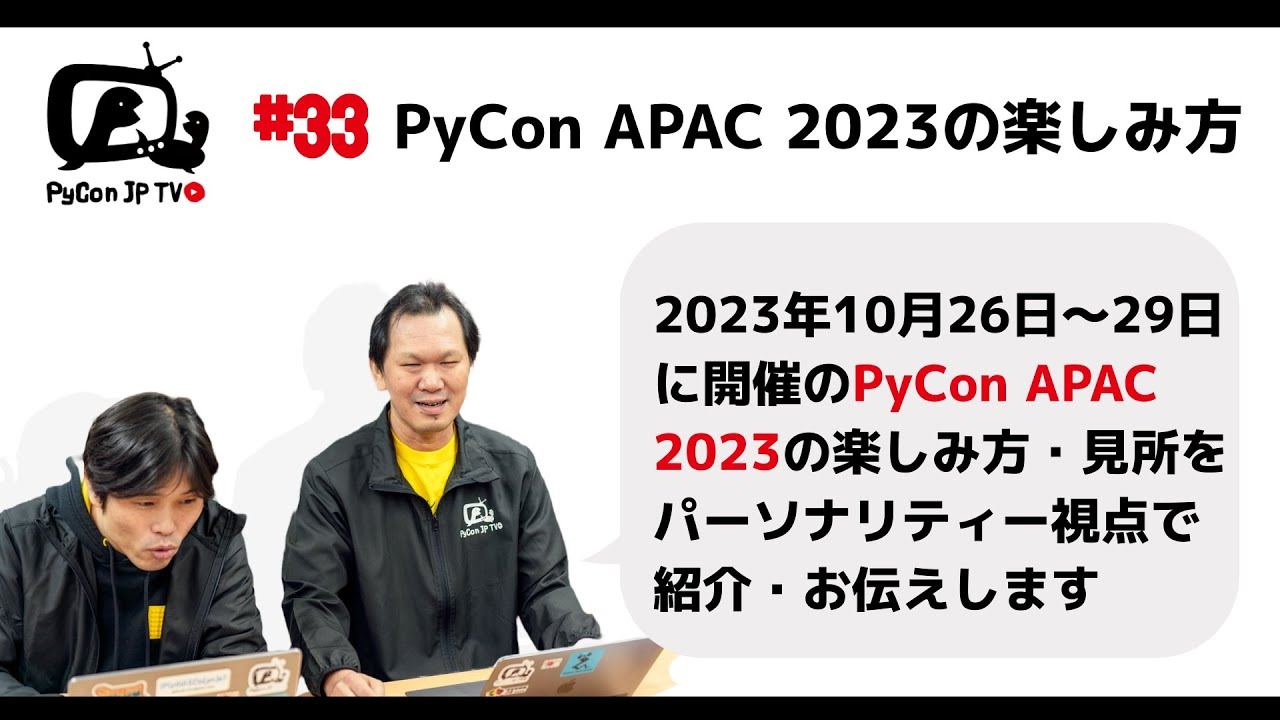
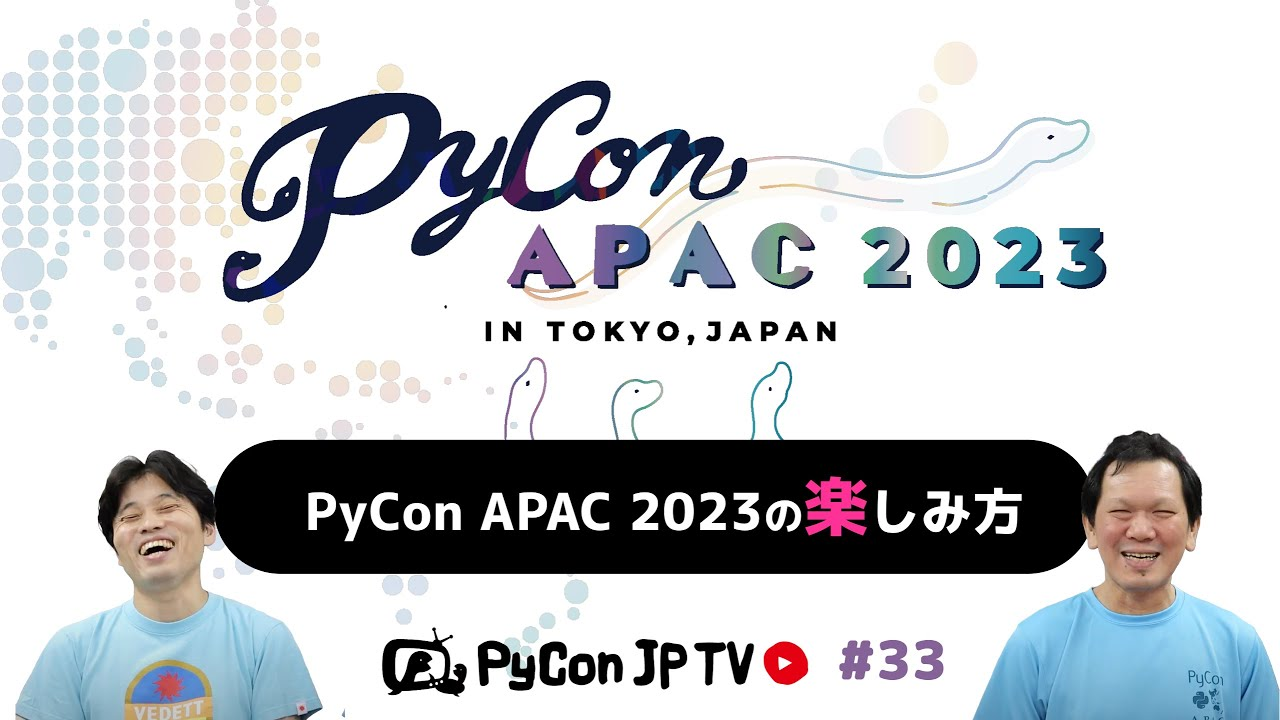
ISSHA-3055 update og:image for episode 33 and add episode 34

diff --git a/source/episode/34.rst b/source/episode/34.rst
@@ -1,3 +1,7 @@
+:og:image: https://tv.pycon.jp/_images/episode34.jpg
+
+.. |cover| image:: images/episode34.jpg
+
 ===========================================
  #34: PyCon APAC 2023振り返り - 2023-11-02
 ===========================================
